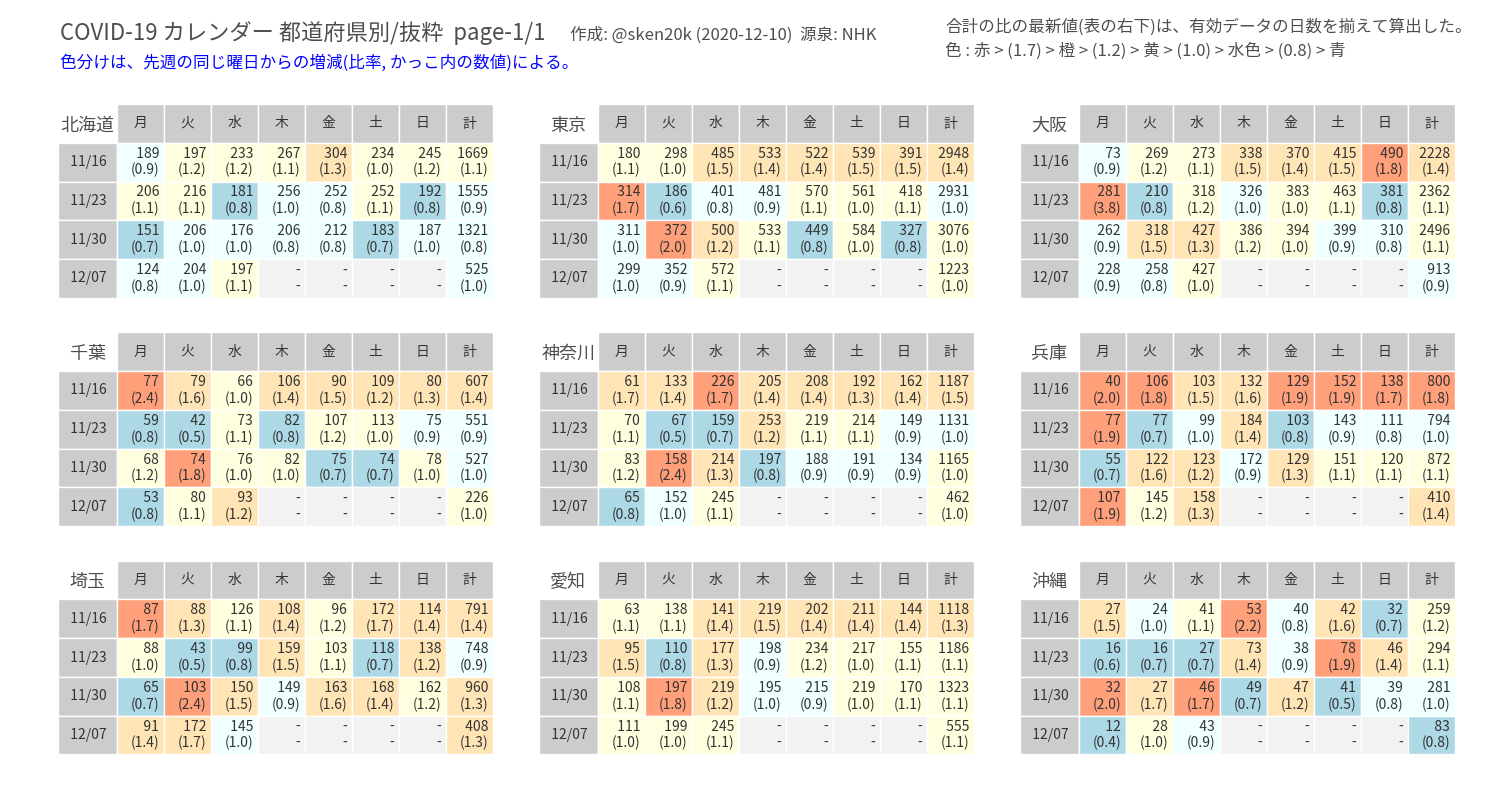
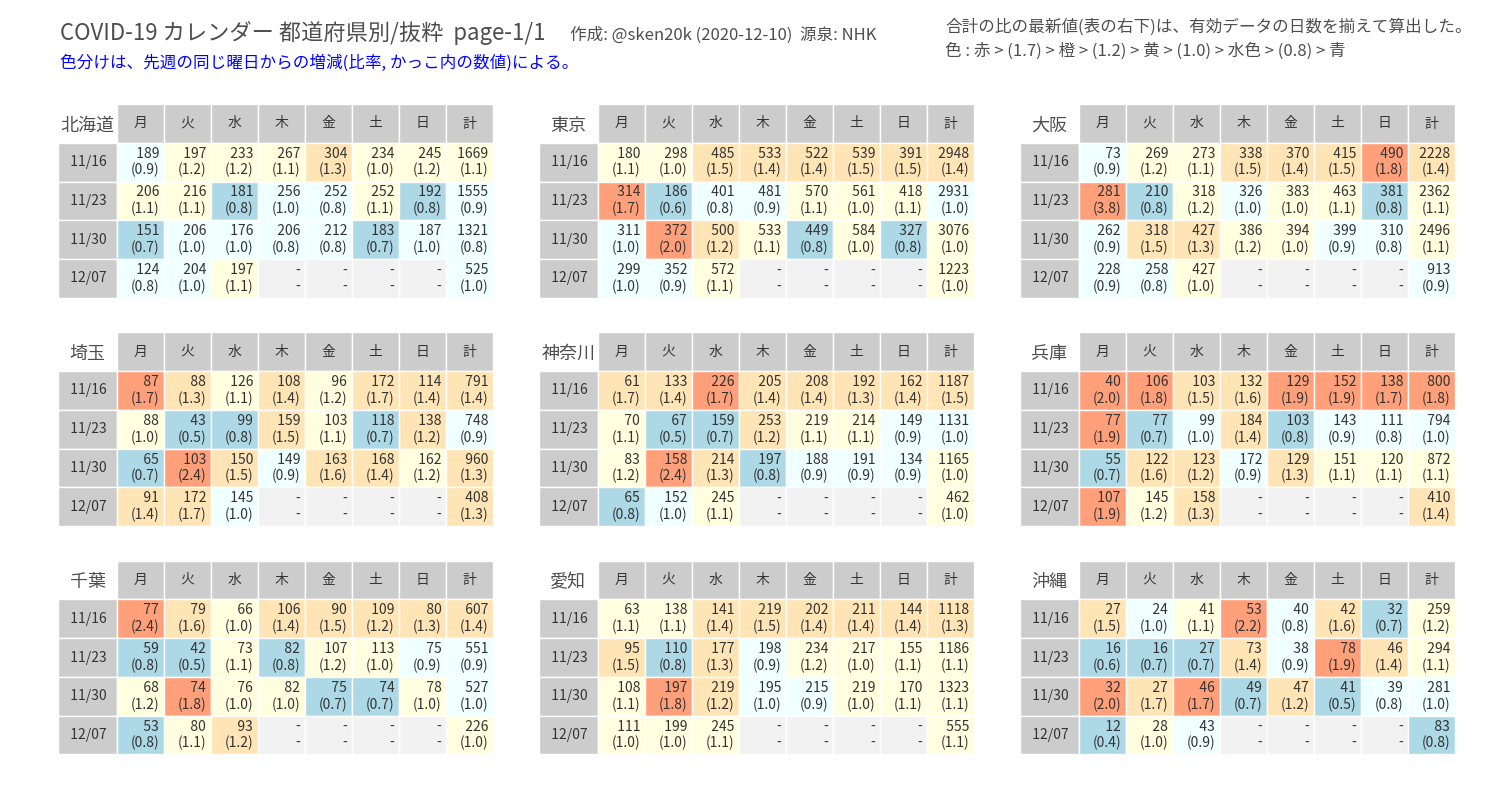
update image of calendar

diff --git a/cov19calendar.html b/cov19calendar.html
@@ -44,7 +44,7 @@
   <h3><a href="index.html">Table of Contents</a></h3>
   <ul>
 <li><a class="reference internal" href="#">COVID-19 カレンダー</a><ul>
-<li><a class="reference internal" href="#id1">北海道/千葉/埼玉/東京/神奈川/愛知/大坂/兵庫/沖縄</a></li>
+<li><a class="reference internal" href="#id1">北海道/埼玉/千葉/東京/神奈川/愛知/大坂/兵庫/沖縄</a></li>
 </ul>
 </li>
 <li><a class="reference internal" href="#id2">各都道府県のトレンド(月曜更新)</a><ul>
@@ -89,7 +89,7 @@
   <div class="section" id="covid-19">
 <h1>COVID-19 カレンダー<a class="headerlink" href="#covid-19" title="Permalink to this headline">¶</a></h1>
 <div class="section" id="id1">
-<h2>北海道/千葉/埼玉/東京/神奈川/愛知/大坂/兵庫/沖縄<a class="headerlink" href="#id1" title="Permalink to this headline">¶</a></h2>
+<h2>北海道/埼玉/千葉/東京/神奈川/愛知/大坂/兵庫/沖縄<a class="headerlink" href="#id1" title="Permalink to this headline">¶</a></h2>
 <a class="reference internal image-reference" href="_images/covid19_calendar.png"><img alt="_images/covid19_calendar.png" class="align-center" src="_images/covid19_calendar.png" style="width: 600.0px; height: 320.0px;" /></a>
 <p>図をクリックすると拡大します。</p>
 </div>

diff --git a/index.html b/index.html
@@ -77,7 +77,7 @@
 <p class="caption"><span class="caption-text">Contents:</span></p>
 <ul>
 <li class="toctree-l1"><a class="reference internal" href="cov19calendar.html">COVID-19 カレンダー</a><ul>
-<li class="toctree-l2"><a class="reference internal" href="cov19calendar.html#id1">北海道/千葉/埼玉/東京/神奈川/愛知/大坂/兵庫/沖縄</a></li>
+<li class="toctree-l2"><a class="reference internal" href="cov19calendar.html#id1">北海道/埼玉/千葉/東京/神奈川/愛知/大坂/兵庫/沖縄</a></li>
 </ul>
 </li>
 <li class="toctree-l1"><a class="reference internal" href="cov19calendar.html#id2">各都道府県のトレンド(月曜更新)</a><ul>
